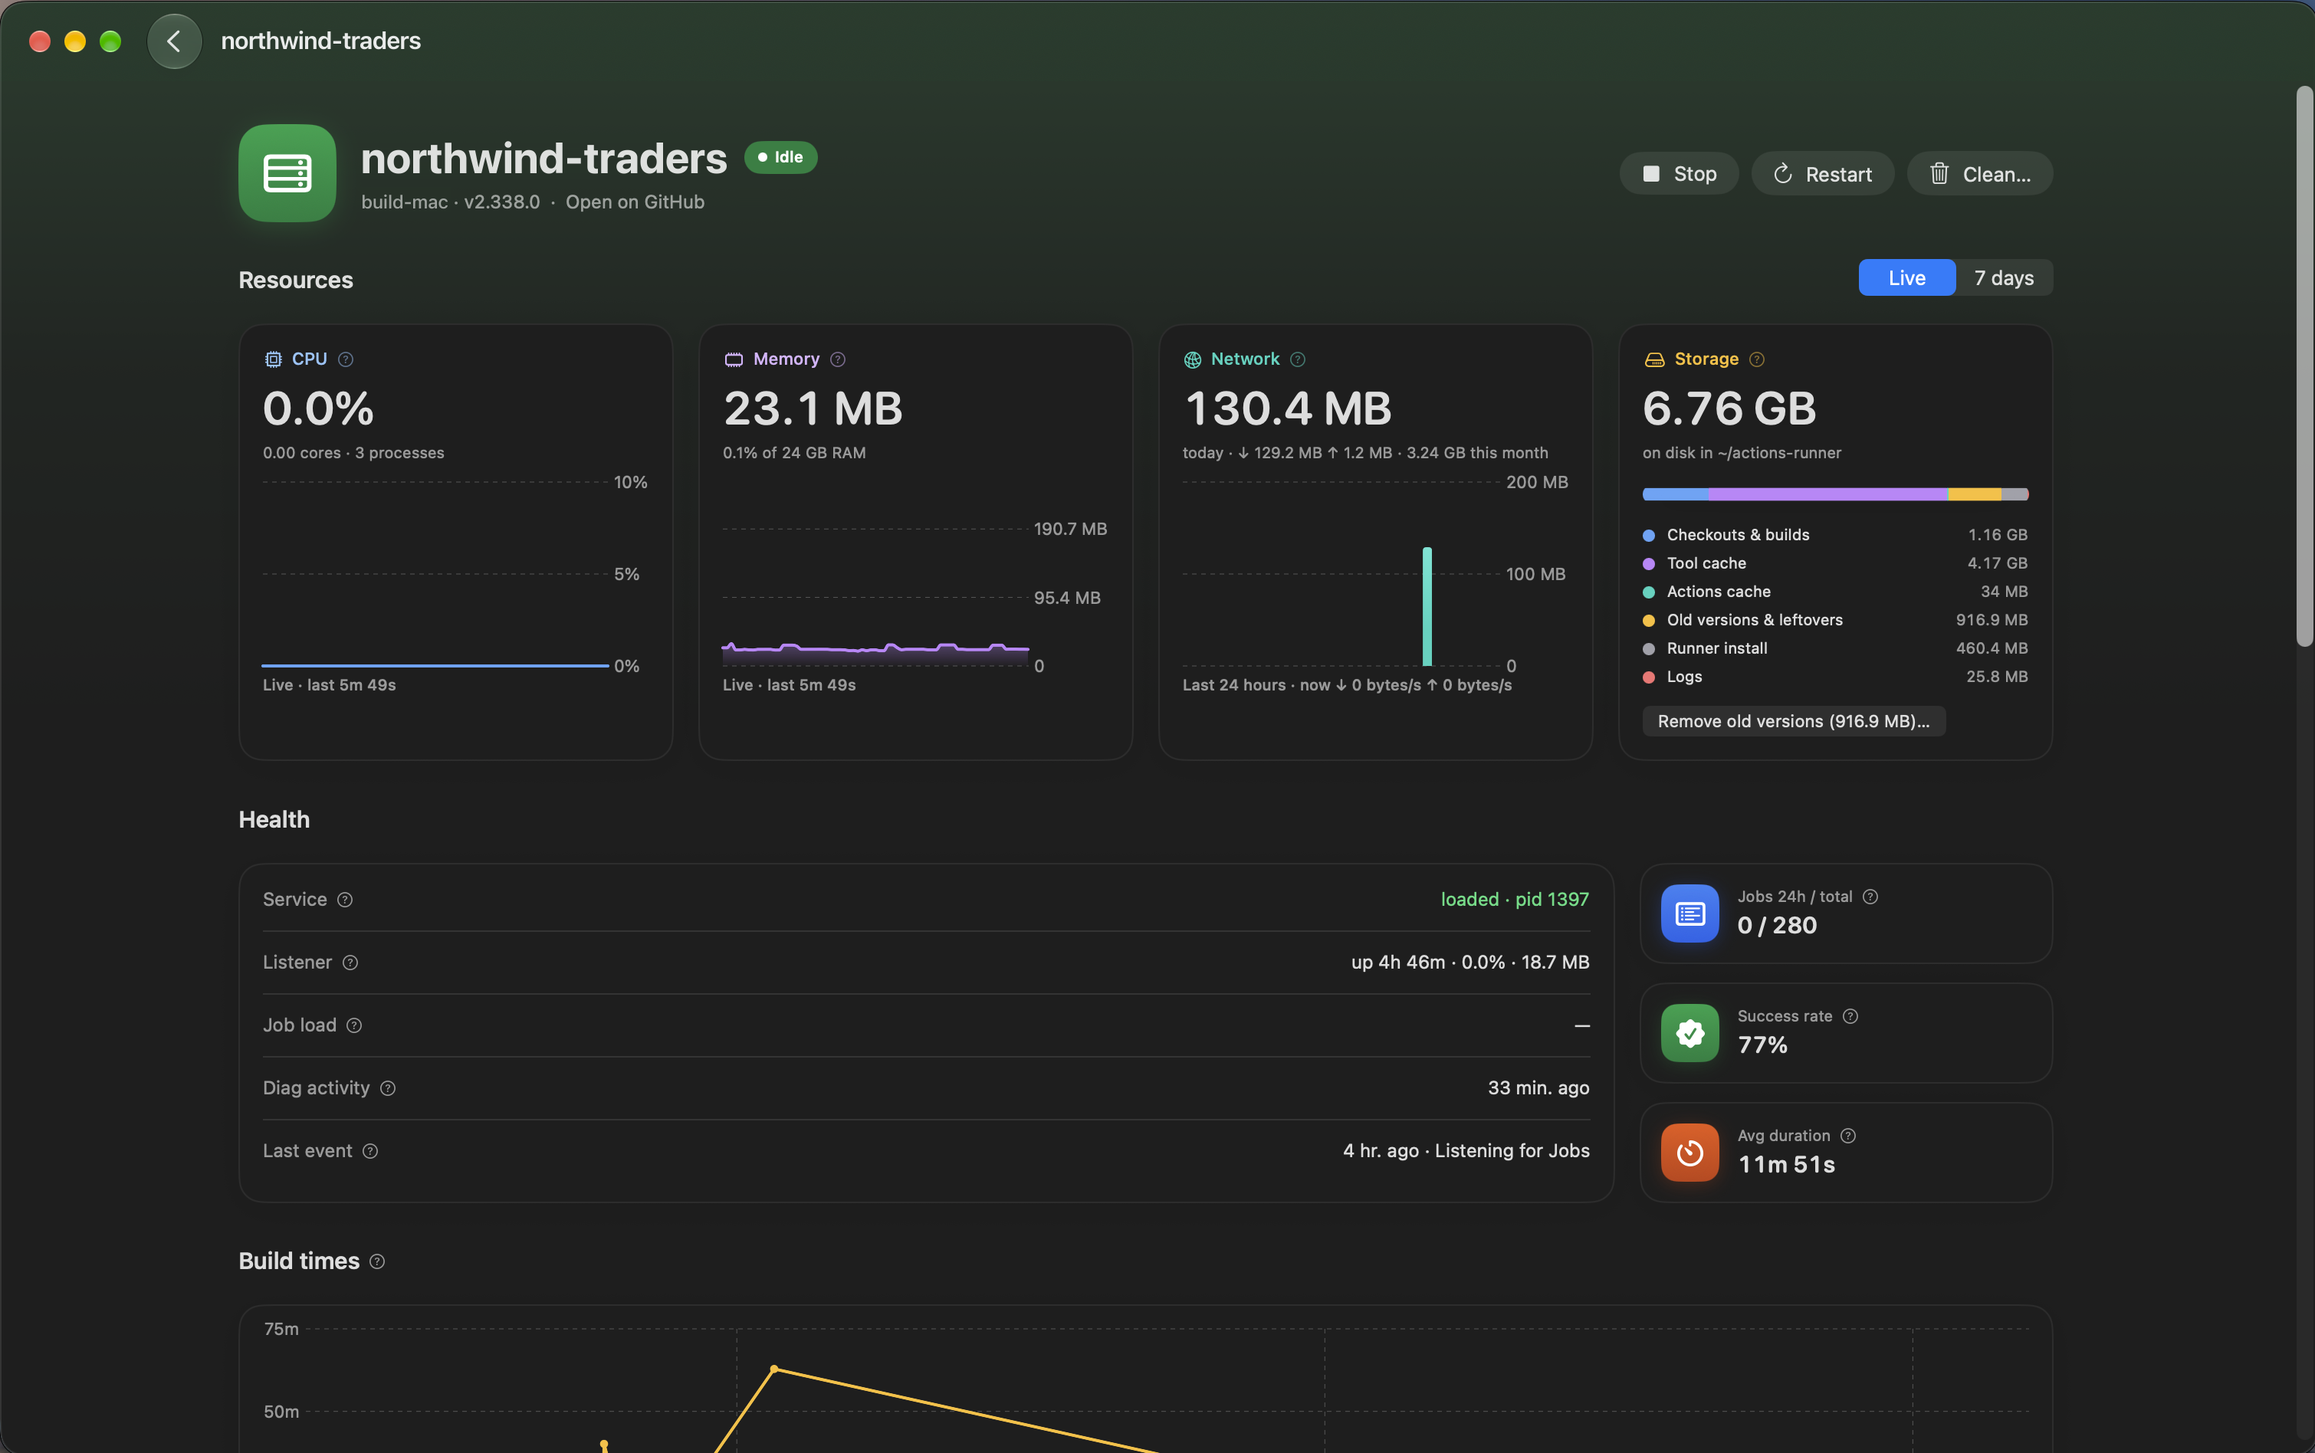
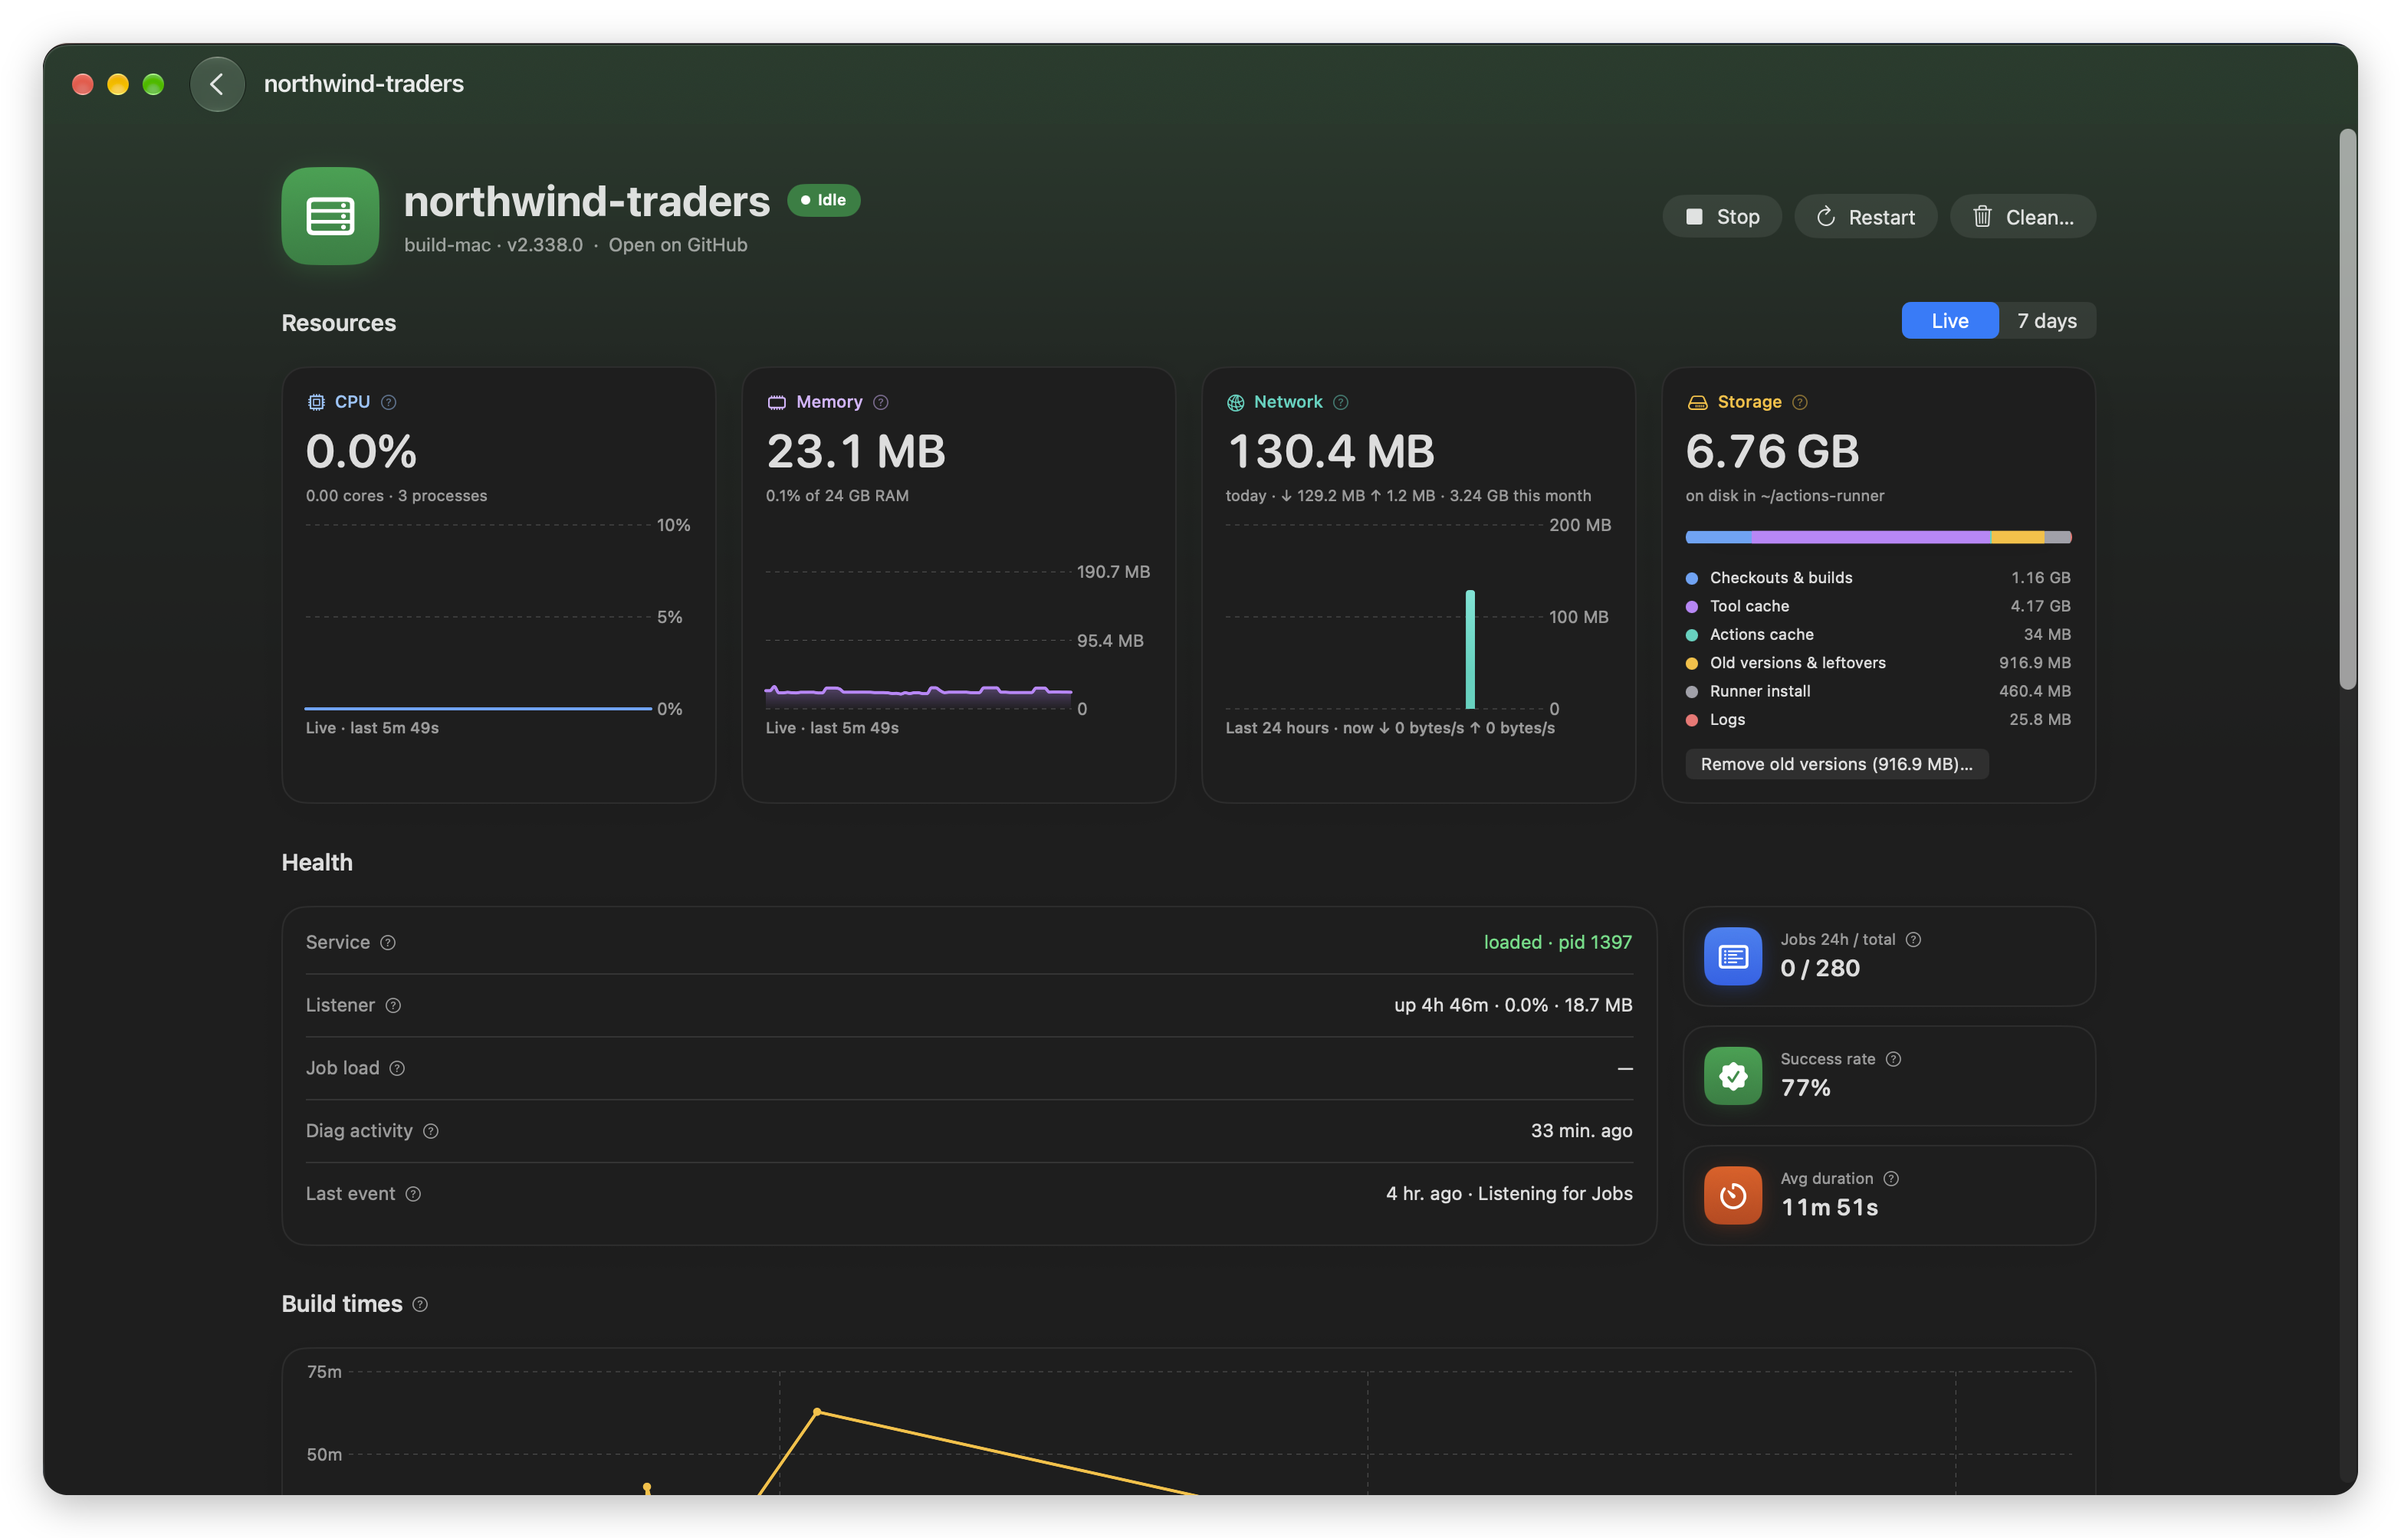
Refresh the README with the latest features and new screenshots
Centred header with the app icon and badges. Features are grouped into short
illustrated sections, including Add Runner and Find Runners (normal and hard
search). The screenshots are new: dashboard, menu bar panel, Find Runners and
Add Runner, with the runner page reframed. The user's runner, Wi-Fi and Mac
names are replaced with placeholders, sheets are cropped to the sheet, and
every image has transparent rounded corners and a soft shadow.

diff --git a/README.md b/README.md
@@ -1,12 +1,23 @@
-# Runner Dashboard
+<p align="center">
+  <img src="docs/icon.png" width="128" alt="Runner Dashboard icon">
+</p>
 
-[![Release](https://github.com/maheshBawa/runner-dashboard/actions/workflows/release.yml/badge.svg)](https://github.com/maheshBawa/runner-dashboard/actions/workflows/release.yml)
+<h1 align="center">Runner Dashboard</h1>
 
-A macOS menu bar app for watching and managing the self-hosted GitHub Actions runners on your Mac.
+<p align="center">
+  Watch and manage the self-hosted GitHub Actions runners on your Mac, right from the menu bar.
+</p>
 
-It shows every runner in a `~/actions-runner*` folder by itself. **Find Runners** searches the whole Mac, every user's folders included, for runners set up without it, and you choose which to add. No GitHub token is needed: everything comes from the runners' own files and processes.
+<p align="center">
+  <a href="https://github.com/maheshBawa/runner-dashboard/releases/latest"><img src="https://img.shields.io/github/v/release/maheshBawa/runner-dashboard?label=release" alt="Latest release"></a>
+  <img src="https://img.shields.io/badge/macOS-14%2B-blue" alt="macOS 14 or later">
+  <img src="https://img.shields.io/badge/Apple%20silicon-arm64-blue" alt="Apple silicon">
+  <a href="https://github.com/maheshBawa/runner-dashboard/actions/workflows/release.yml"><img src="https://github.com/maheshBawa/runner-dashboard/actions/workflows/release.yml/badge.svg" alt="Release workflow status"></a>
+</p>
 
-![The dashboard window: runners, network, this Mac and recent jobs](docs/dashboard.png)
+<p align="center">
+  <img src="docs/dashboard.png" alt="The dashboard: runners, network, this Mac and recent jobs">
+</p>
 
 ## Install
 
@@ -16,35 +27,73 @@ You need macOS 14 or later on Apple silicon. Run this in Terminal:
 curl -fsSL https://raw.githubusercontent.com/maheshBawa/runner-dashboard/main/scripts/install.sh | bash
 ```
 
-It installs the latest release into `~/Applications` and opens it in the menu bar.
+It installs the latest release into `~/Applications` and opens it in the menu bar. From then on, the app updates itself.
+
+No GitHub login is needed. The app reads everything from the runners' own files and processes on your Mac.
 
 ## Features
 
-<img src="docs/menu.png" alt="The menu bar panel" width="345" align="right">
+### Everything at a glance
 
-- **Menu bar panel**: every runner at a glance (idle, running a job, or stopped), with CPU, memory and network use. The icon animates while a job runs.
-- **Dashboard window**: a page for each runner with:
-  - recent jobs, with links to their runs on GitHub
-  - build times and success rate
-  - live logs
-  - CPU, memory, disk and health
-- **Add runners**: paste the `./config.sh` line from GitHub's New self-hosted runner page into **Add Runner**, and optionally add labels. The app downloads the runner, registers it and starts it as a service.
-- **Controls**:
-  - Start, stop and restart runners. Stop always asks first.
-  - Free disk space: clean a runner's workspace, remove old runner versions, or clear Xcode DerivedData.
-- **Network usage**: the data each runner uses, and the data used on each Wi-Fi network, by hour, day or month. Set a monthly data cap to get alerts at 80% and 100%.
-- **Notifications**: when a job fails or succeeds, when a runner goes offline on its own, or when free disk space runs low.
-- **Automation**, each optional:
-  - Keep the Mac awake while a job runs.
-  - Clean idle runners' workspaces when disk space is low.
-  - Pause runners on low battery.
-- **Open at login**, and in-app updates.
+<img src="docs/menu.png" alt="The menu bar panel" width="320" align="right">
+
+The **menu bar panel** lists every runner as idle, building or stopped, with the job it's running. It also shows CPU, memory, free disk space and network use. The menu bar icon animates while a job runs.
+
+The **dashboard window** adds the network summary, the state of the Mac (CPU, memory, disk, power, thermal, Xcode DerivedData) and the most recent jobs across all runners, each linked to its run on GitHub.
+
+Both show the app's version.
 
 <br clear="right">
 
-![A runner's page: resources, storage breakdown, health and build times](docs/runner.png)
+### A page for every runner
 
-## Updating
+<p align="center">
+  <img src="docs/runner.png" alt="A runner's page in dark mode: resources, storage, health and build times"><br>
+  <sub>Shown in dark mode: the app follows your Mac's appearance.</sub>
+</p>
+
+Each runner's page shows:
+- **Resources:** live and 7-day CPU, memory and network use.
+- **Storage:** what's taking up its disk space, with a one-click clean-up for old runner versions.
+- **Health:** its service, listener and last activity.
+- **Jobs:** build times over time, success rate, recent jobs and live logs.
+
+### Add a runner in one paste
+
+<img src="docs/add-runner.png" alt="The Add Runner sheet" width="420" align="right">
+
+On GitHub, open your organization's or repository's **Settings › Actions › Runners › New self-hosted runner**, choose macOS, and copy the line that starts with `./config.sh`. Paste it into **Add Runner**, adjust the name and add labels if you like, and click **Add Runner**.
+
+The app then:
+1. downloads the latest runner
+2. registers it with GitHub, using your shell's environment so jobs find Homebrew, Java and the Android SDK
+3. starts it as a background service
+
+<br clear="right">
+
+### Find runners already on your Mac
+
+<p align="center">
+  <img src="docs/find-runners.png" alt="Find Runners: the radar and the list of runners it found" width="460">
+</p>
+
+Runners in `~/actions-runner*` folders show up by themselves. For runners set up elsewhere, click **Find Runners**: a radar sweeps while it searches, and each runner pings onto it the moment it's found.
+
+- **Normal search** runs right away. It checks running runners, installed runner services and Spotlight, for every user on the Mac.
+- **Hard search** goes further: tick it and press **Retry** to also look through every folder on the disk, external drives included.
+
+Tick the runners you want and click **Add**. Runners that belong to another user, or that were started by hand with `./run.sh`, are shown but can't be started or stopped from the app.
+
+### Keep the Mac healthy
+
+- **Controls:** start, stop and restart runners. Stop always asks first.
+- **Disk space:** clean a runner's workspace, remove old runner versions or clear Xcode DerivedData. Optionally, idle runners clean up automatically when space runs low.
+- **Network usage:** the data each runner uses and the data used on each Wi-Fi network, by hour, day or month. Set a monthly data cap to get alerts at 80% and 100%.
+- **Notifications:** when a job fails or succeeds, when a runner goes offline on its own, or when free disk space runs low.
+- **Power:** keep the Mac awake while a job runs, and pause idle runners on low battery.
+- **Open at login.**
+
+### Updates itself
 
 The app checks for a new release every hour. When one is out, the menu bar panel shows **Update available**: click **Update now**, and the app downloads, installs and relaunches itself. To check right away, use Settings › **Check for Updates…**.
 

diff --git a/CLAUDE.md b/CLAUDE.md
@@ -33,7 +33,9 @@ docs/                          README screenshots (runner, Wi-Fi and Mac names r
 - Deliver every feature and fix as a PR. Branch from `main` (`feat/…`, `fix/…`, `chore/…`), push, then `gh pr create`. Never commit or push to `main` directly: the user reviews and merges.
 - Before opening a PR, `scripts/build.sh` must pass (it runs `--selftest`). For UI changes, also check them in the running app. Say in the PR what you couldn't test, for example a path that needs a real GitHub token.
 - Releases: the user runs Actions › Release › Run workflow and picks patch, minor or major (linked from README.md). CI bumps the latest tag, tags `main` and publishes. Pushing a `vX.Y.Z` tag still works for a specific version. Installed copies offer the update within an hour.
-- Screenshots in `docs/` and the README must never show the user's real runner names, Wi-Fi name or Mac name. Use the placeholders `northwind-traders`, `Contoso`, `Tailspin-Toys`, `Office-WiFi-5G` and `build-mac`.
+- Screenshots in `docs/` and the README must never show the user's real runner names, Wi-Fi name or Mac name, including in folder paths such as `~/actions-runner-<name>`. Use the placeholders `northwind-traders`, `Contoso`, `Tailspin-Toys`, `Office-WiFi-5G` and `build-mac`. `runner-dashboard`, this public repo's own runner, can stay.
+  - Crop sheets to the sheet itself (the dimmed page behind shows names), and give every image transparent rounded corners and a soft shadow, so it works on GitHub's light and dark themes.
+  - The terminal can't capture the screen, so the user takes the screenshots.
 
 ## Release runner (public repo)
 
